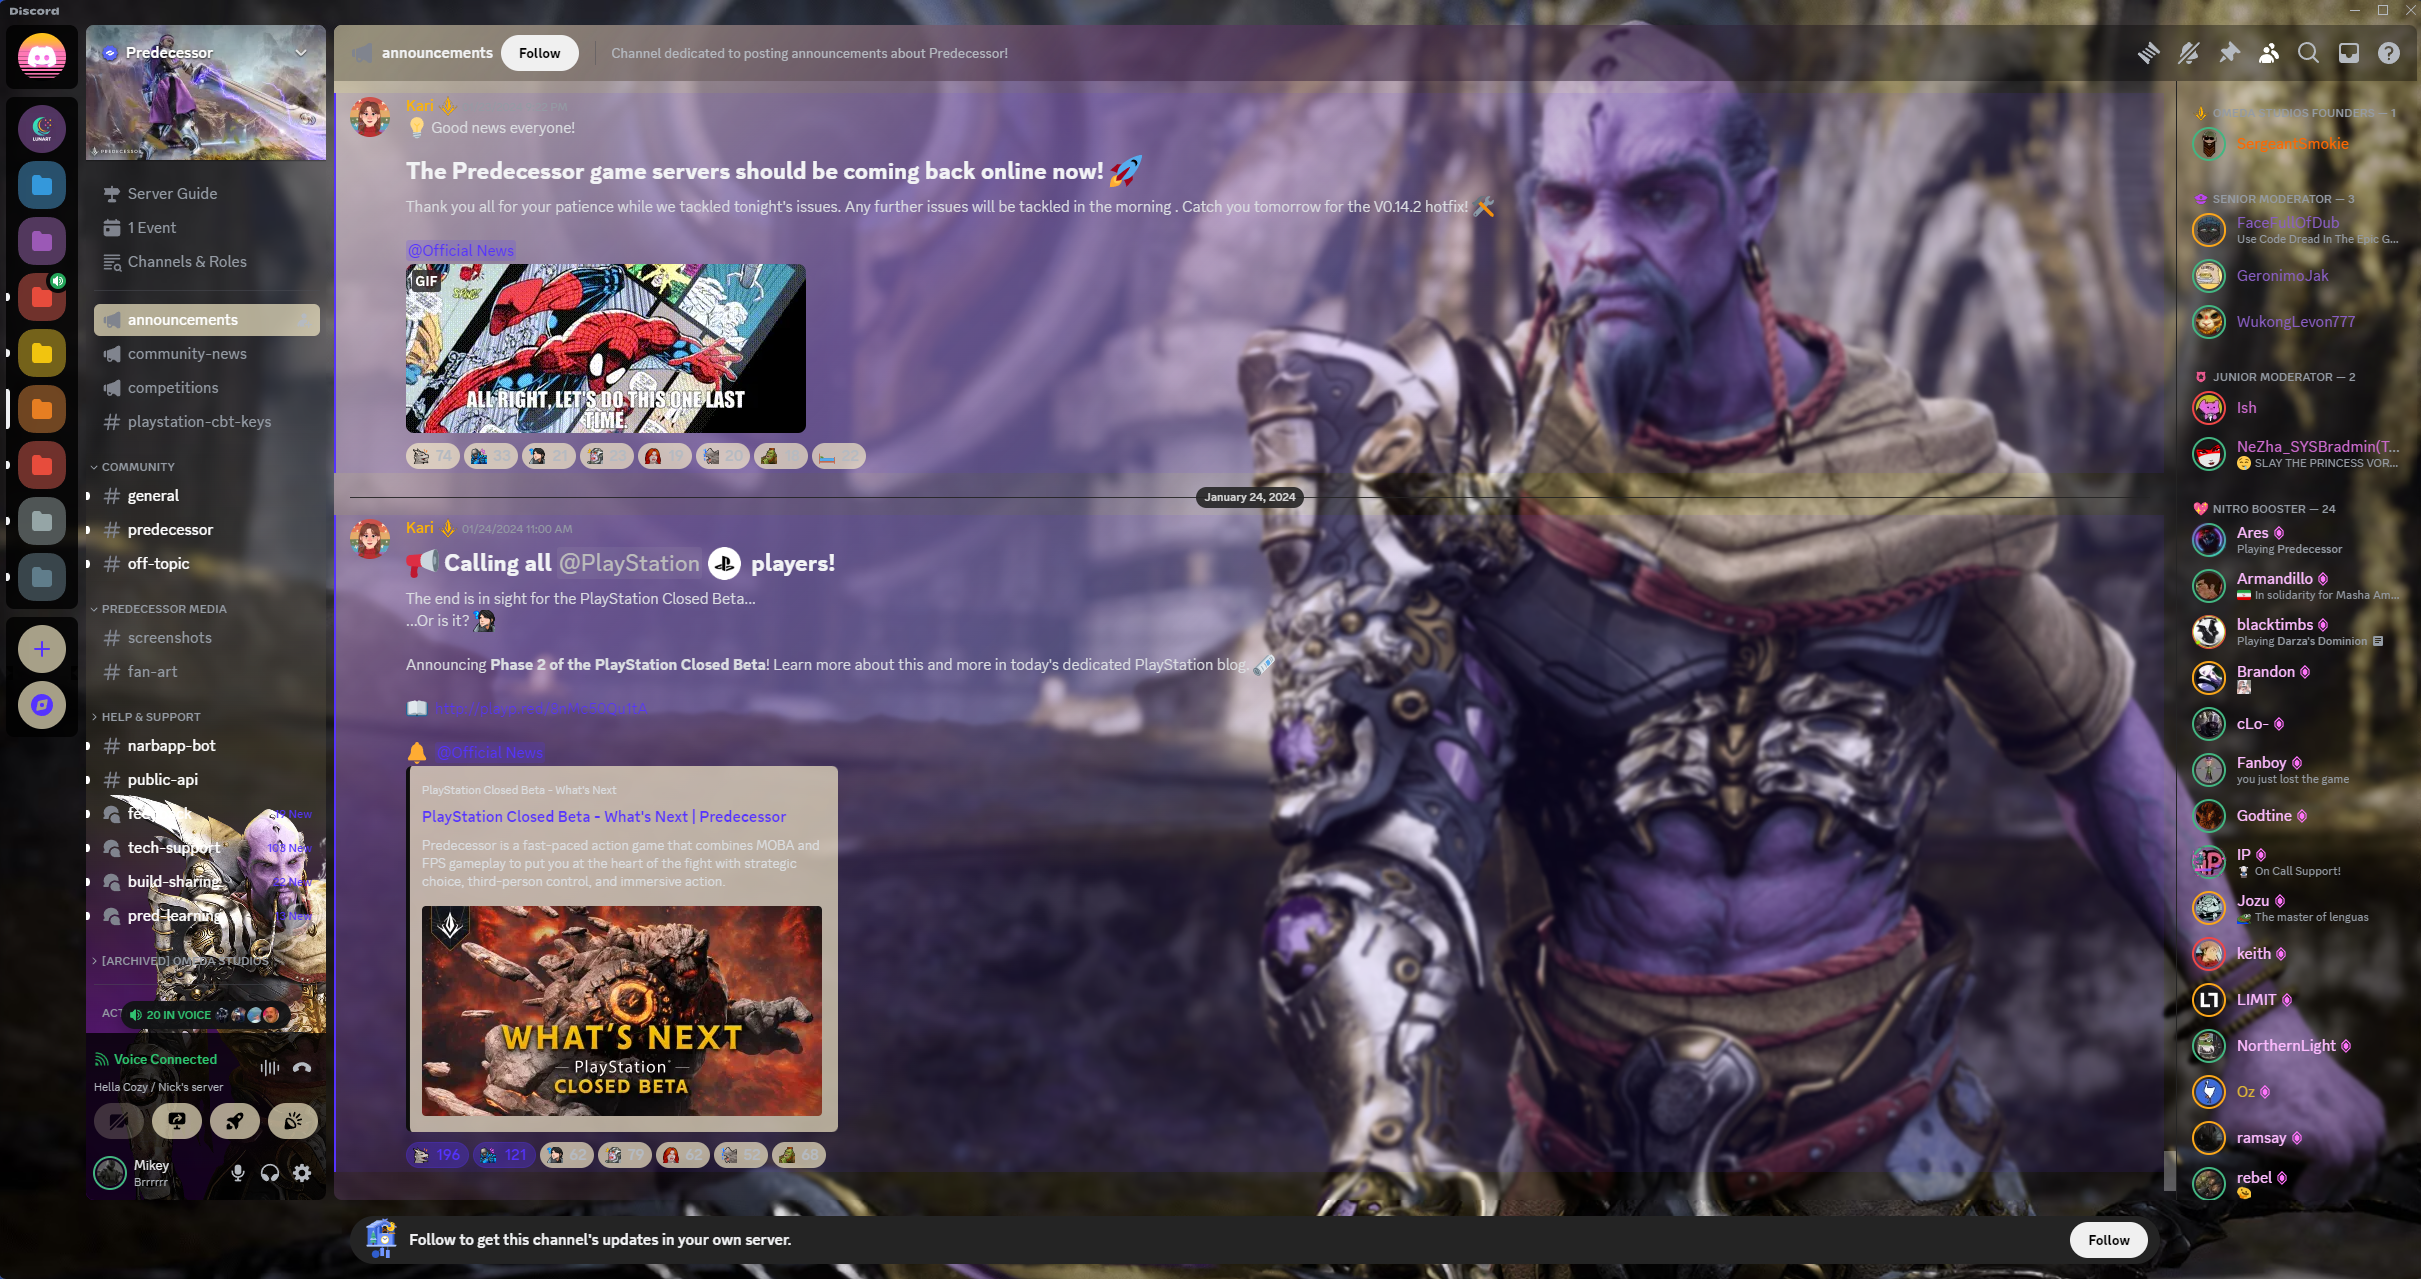
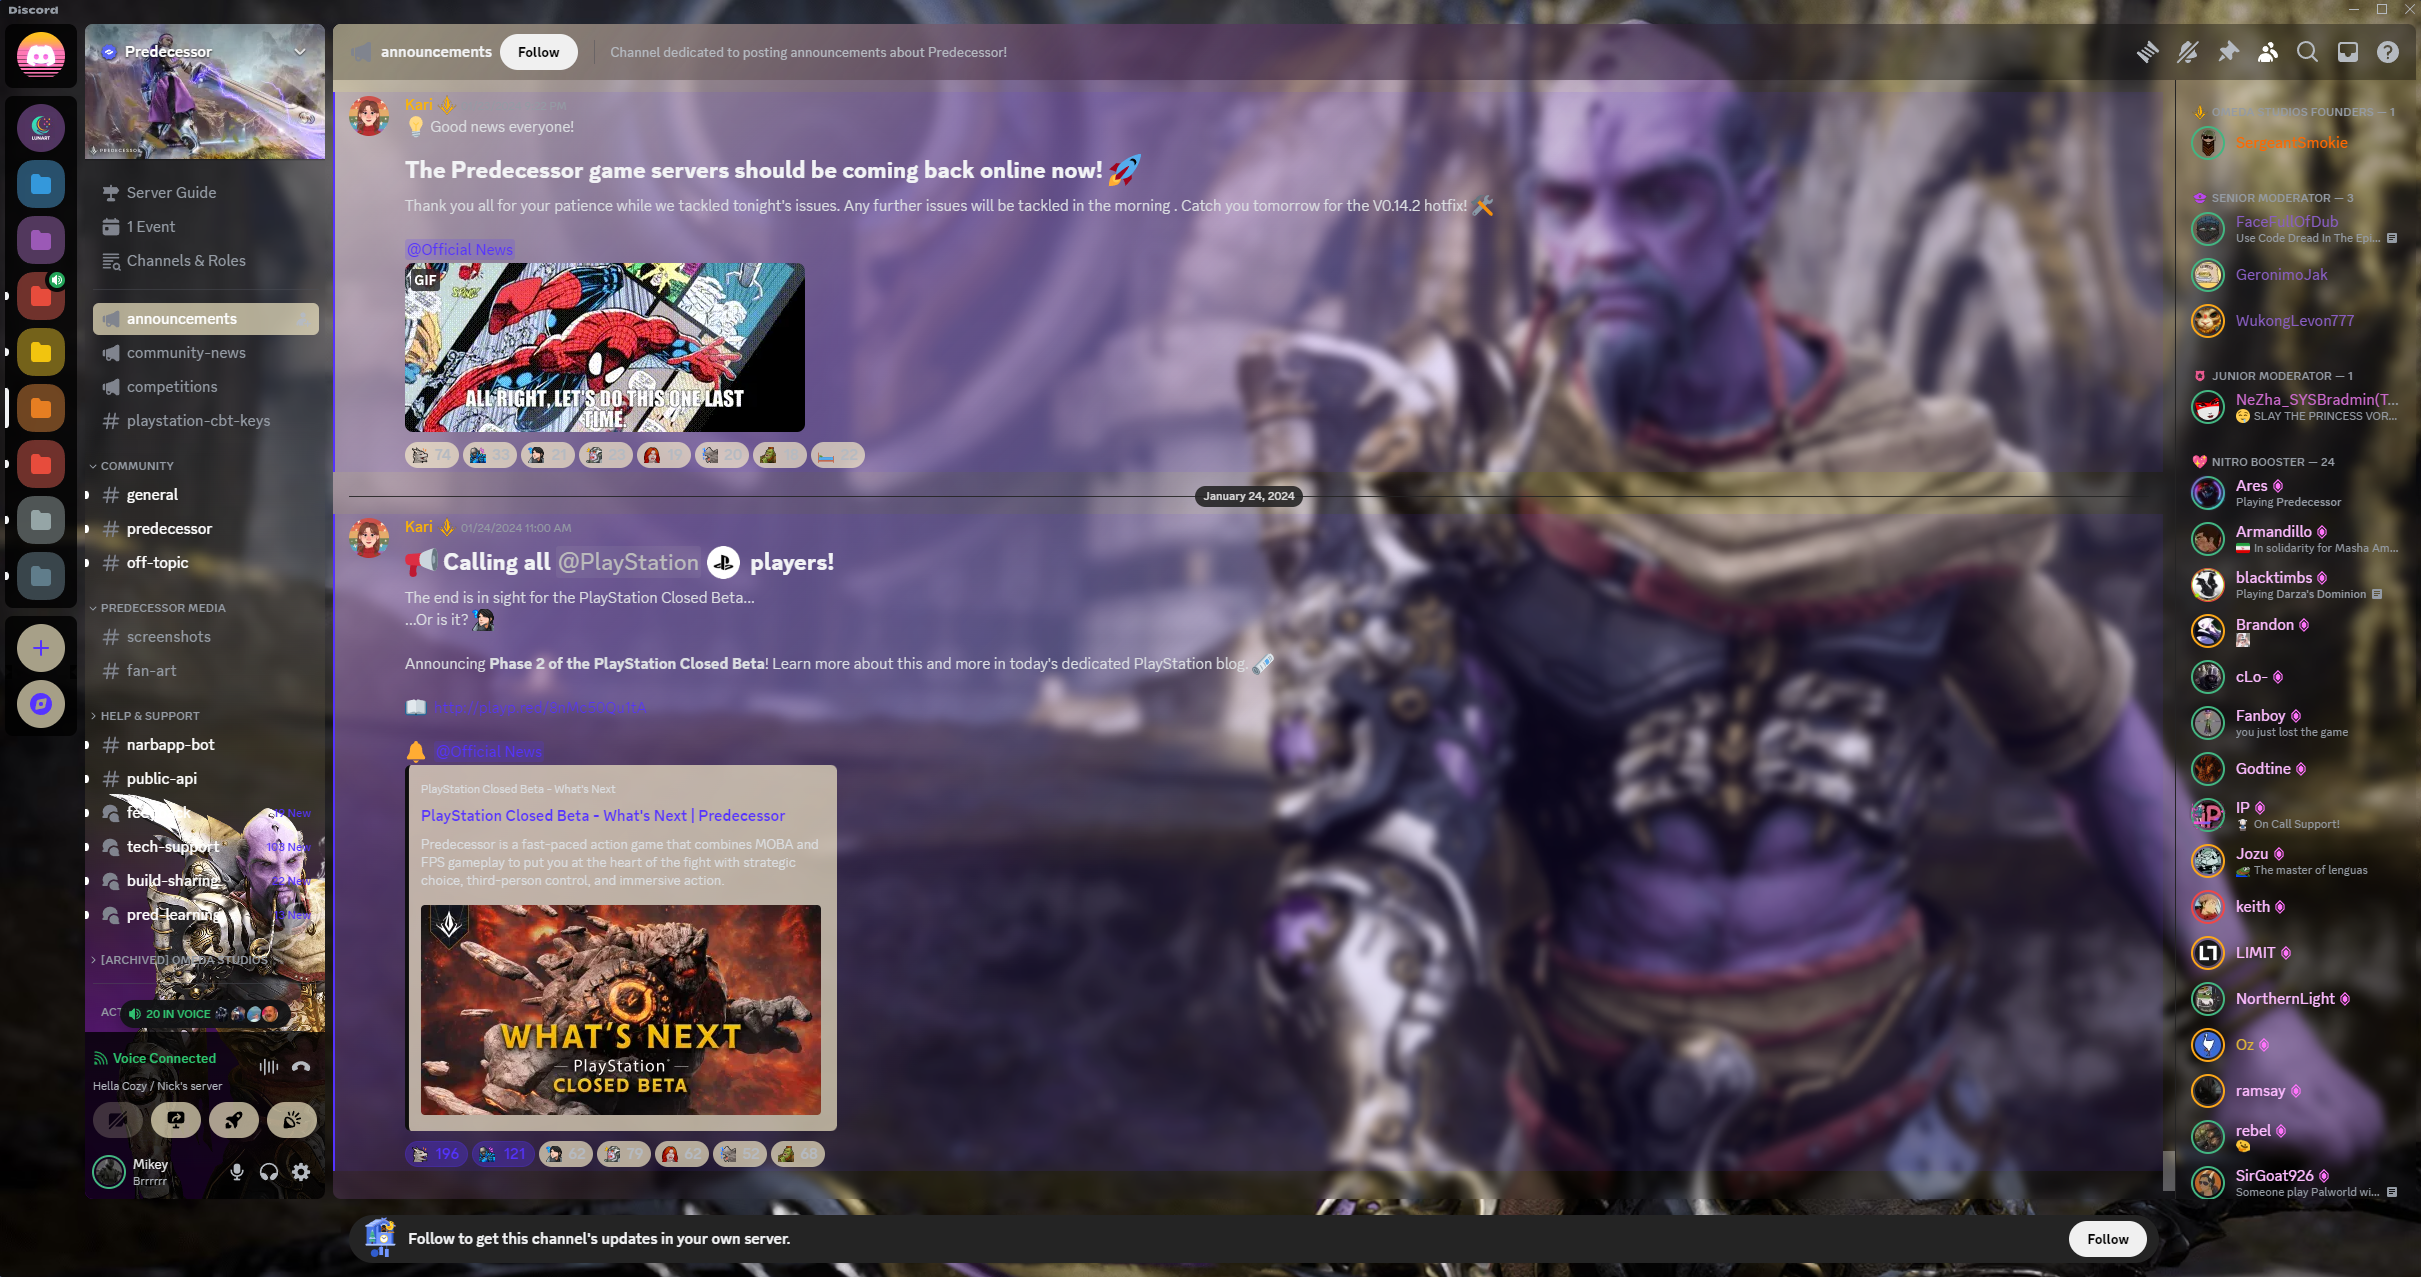
Updated Fangmao Theme

diff --git a/themes/Fengmao.themes.css b/themes/Fengmao.themes.css
@@ -61,7 +61,7 @@
 
     /* Blur for background global */
     --blur-sidepannel: blur(5px);
-    --blur-main-chat: blur(2px);
+    --blur-main-chat: blur(5px);
     --blur-chat-header: blur(15px);
 
     /* Changes Channel list background color / image you can really go crazy here if you understand css. If you dont just replace the Url link with your Image                                                              Change sizing and scaling here for image          This is a Gradient if you dont want a background image just delete the url()part */
